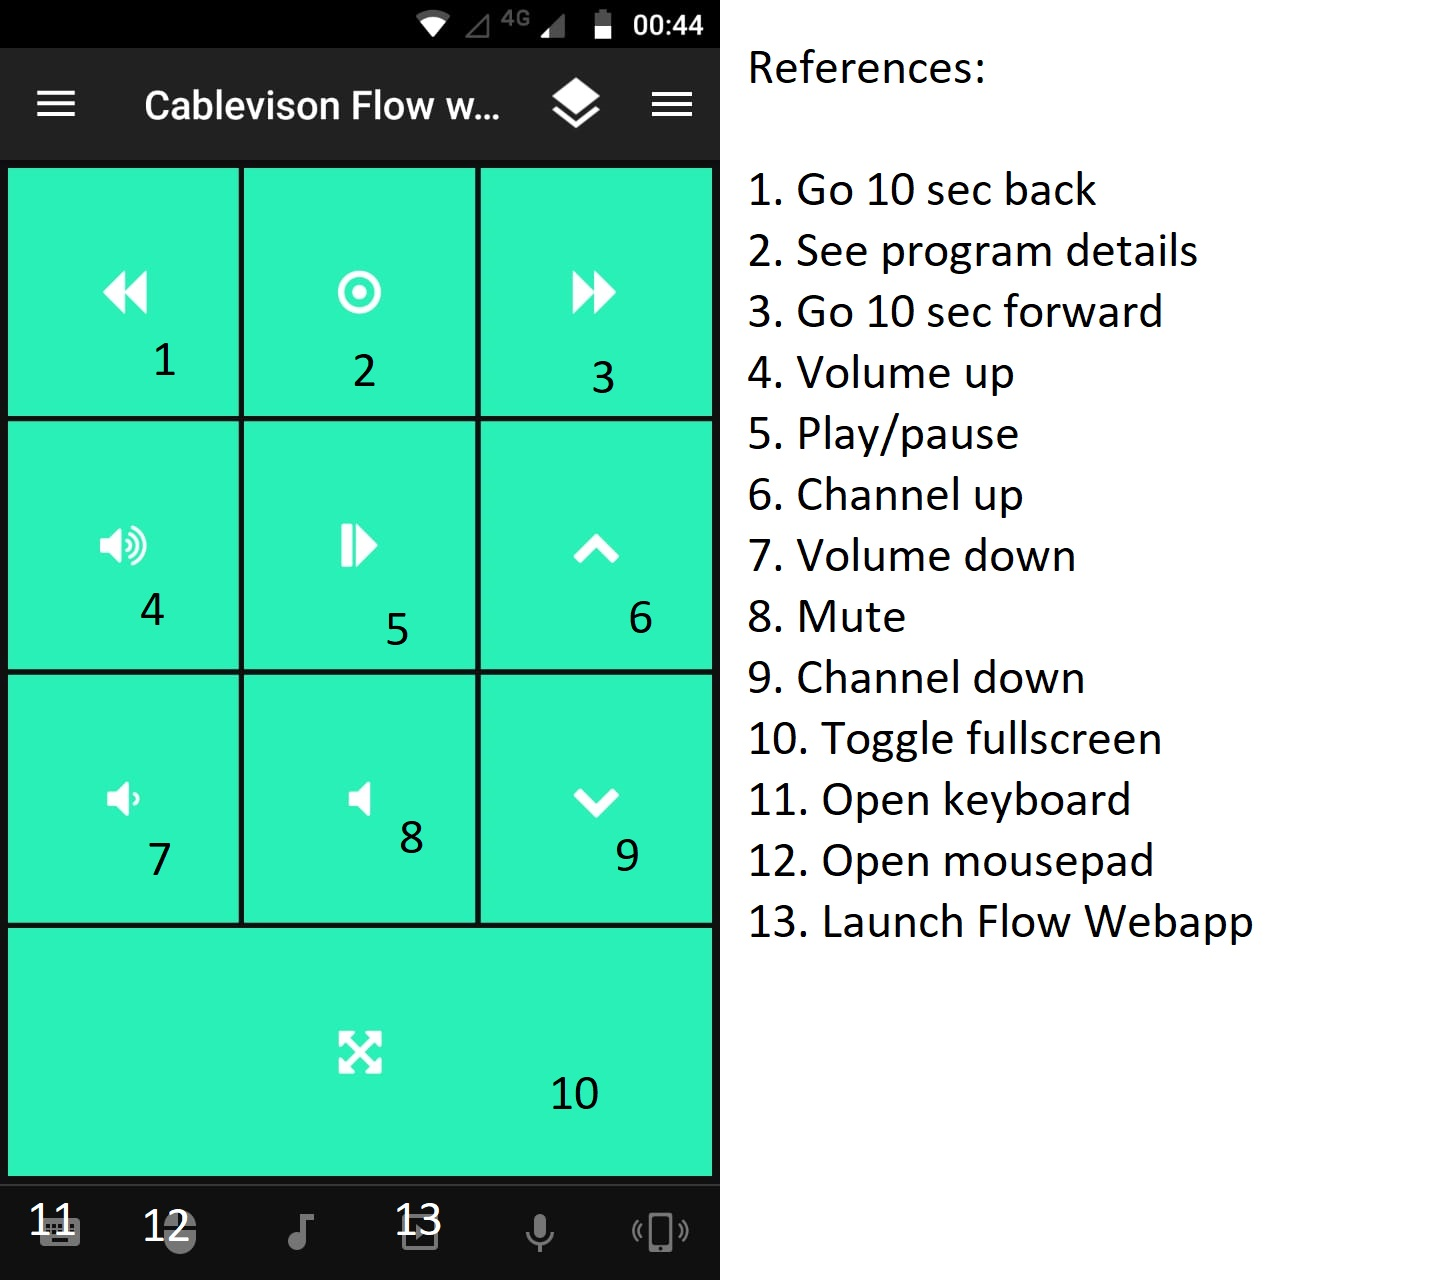
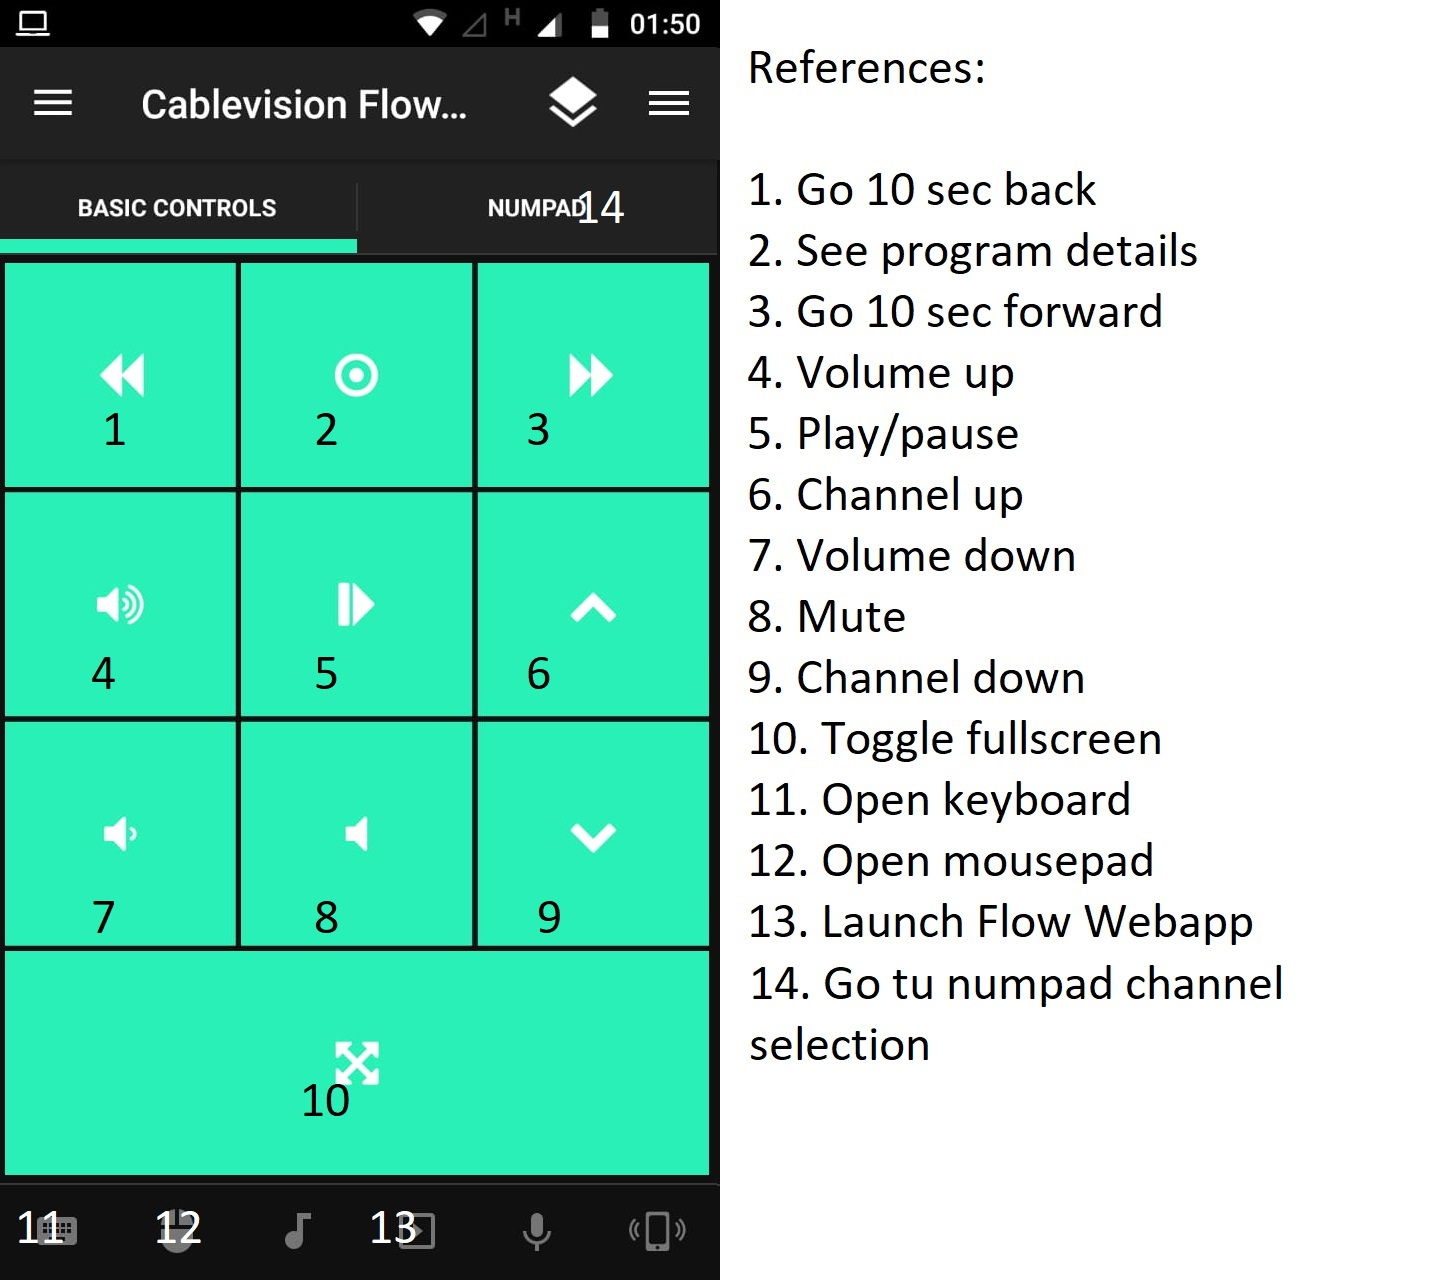
Instructions image updated

diff --git a/README.md b/README.md
@@ -21,7 +21,7 @@ To do list:
 - Open/close onscreen TV Guide
 - Toggle audio language
 - Press "Live" button
-- Add numpad to select specific channel
+- ~~ Add numpad to select specific channel ~~
 
 (Those things can actually be done through the mousepad).
 
